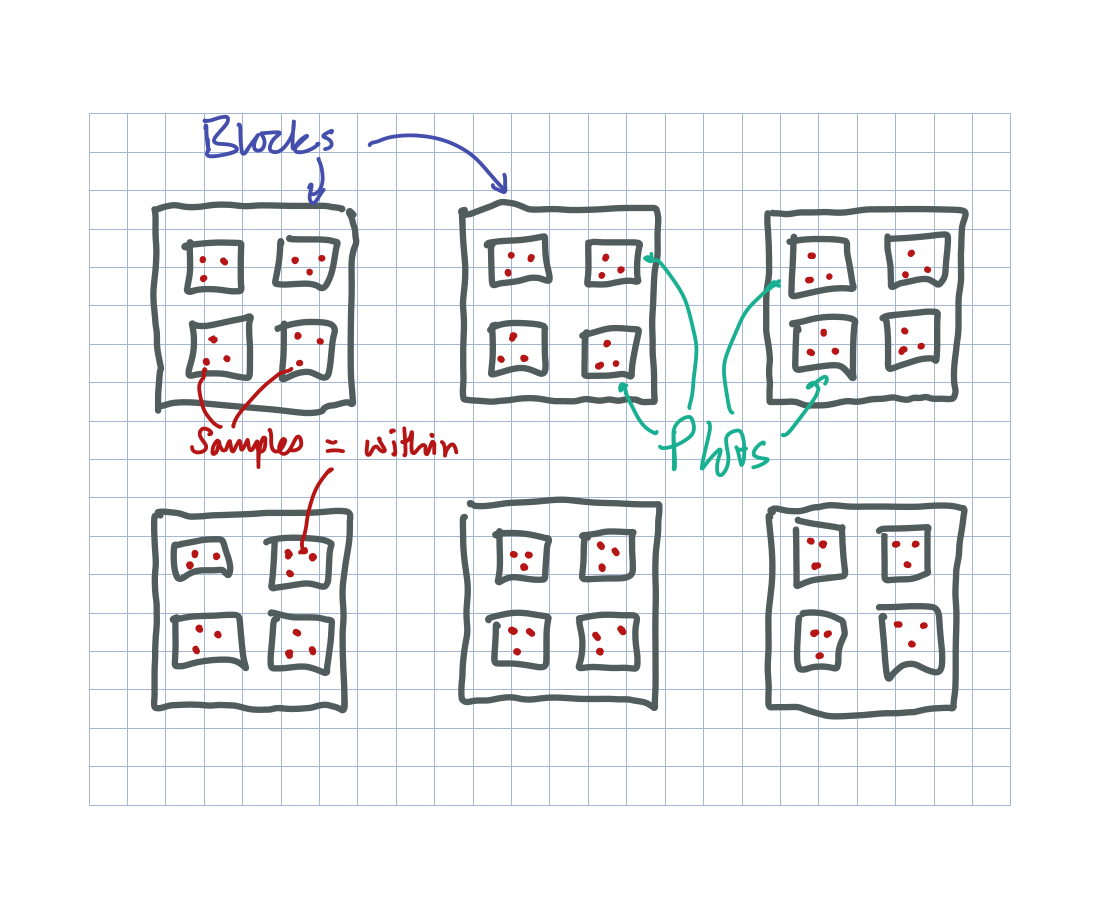
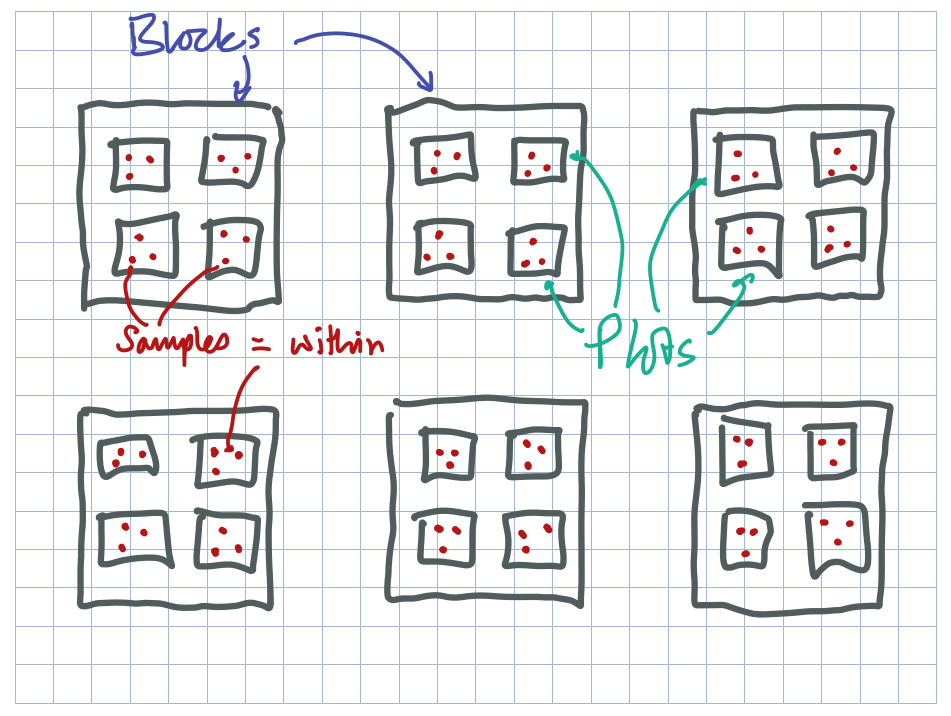
fix slides

Changed region(s): [[0.061, 0.0, 0.9453, 0.8911], [0.3049, 0.0307, 0.3964, 0.0615], [0.3964, 0.0615, 0.4269, 0.0922]]

diff --git a/04-thursday/slides.html b/04-thursday/slides.html
@@ -93,7 +93,7 @@ summary(pstat)
 ```
 ## 
 ##       statistic    SES   mean lower median  upper Pr(perm)  
-## Model    1.4441 1.9835 1.0311       1.0065 1.3833    0.036 *
+## Model    1.4441 2.0330 1.0259       0.9993 1.3789    0.033 *
 ## ---
 ## Signif. codes:  0 '***' 0.001 '**' 0.01 '*' 0.05 '.' 0.1 ' ' 1
 ## 
@@ -331,25 +331,19 @@ If the split-plots are parallel time series &amp; `time` is an autocorrelated er
 
 # Split plot designs
 
-.center[
-&lt;img src="./resources/permutation-designs-sketch-1.png" width="1467" /&gt;
-]
+&lt;img src="./resources/permutation-designs-sketch-1.png" width="75%" style="display: block; margin: auto;" /&gt;
 
 ---
 
 # Split plot designs
 
-.center[
-&lt;img src="./resources/permutation-designs-sketch-2.png" width="1467" /&gt;
-]
+&lt;img src="./resources/permutation-designs-sketch-2.png" width="75%" style="display: block; margin: auto;" /&gt;
 
 ---
 
 # Split plot designs
 
-.center[
-&lt;img src="./resources/permutation-designs-sketch-3.png" width="1467" /&gt;
-]
+&lt;img src="./resources/permutation-designs-sketch-3.png" width="75%" style="display: block; margin: auto;" /&gt;
 
 
 ---
